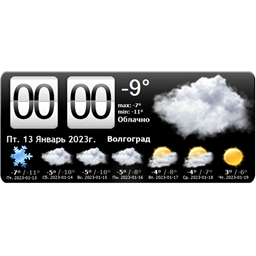
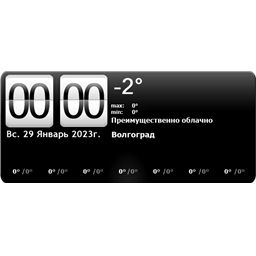
Доработка контекстного меню

Changed region(s): [[0.0, 0.25, 1.0, 0.7188]]

diff --git a/script.js b/script.js
@@ -94,7 +94,6 @@ function displacementDay() {
 
 function layer1OnChange(Sender){
   numbimage1.values = Sender.value;
-  //displacementDay();
 }
 
 function layer2OnChange(Sender){
@@ -199,6 +198,17 @@ function widgetOnLoad(){
     menuitem4.checked = false;
     menuitem5.checked = true;
   }
+  var hr = GetValue("datetimecore1.is12hr","0");
+  if(hr=="0"){
+    datetimecore1.cmd(null,"!24hr");
+    menuitem18.checked = true;
+    menuitem17.checked = false;
+  }
+  if(hr=="1"){
+    datetimecore1.cmd(null,"!12hr");
+    menuitem18.checked = false;
+    menuitem17.checked = true;
+  }
 }
 
 function menuitem10OnClick(Sender){
@@ -270,4 +280,16 @@ function menuitem5OnClick(Sender){
   accweathercore1.cmd(null,"!SetFahrenheit");
   menuitem4.checked = false;
   menuitem5.checked = true;
+}
+ 
+function menuitem17OnClick(Sender){
+  datetimecore1.cmd(null,"!12hr");
+  menuitem17.checked = true;
+  menuitem18.checked = false;  
+}
+
+function menuitem18OnClick(Sender){
+  datetimecore1.cmd(null,"!24hr");
+  menuitem17.checked = false;
+  menuitem18.checked = true;  
 }
